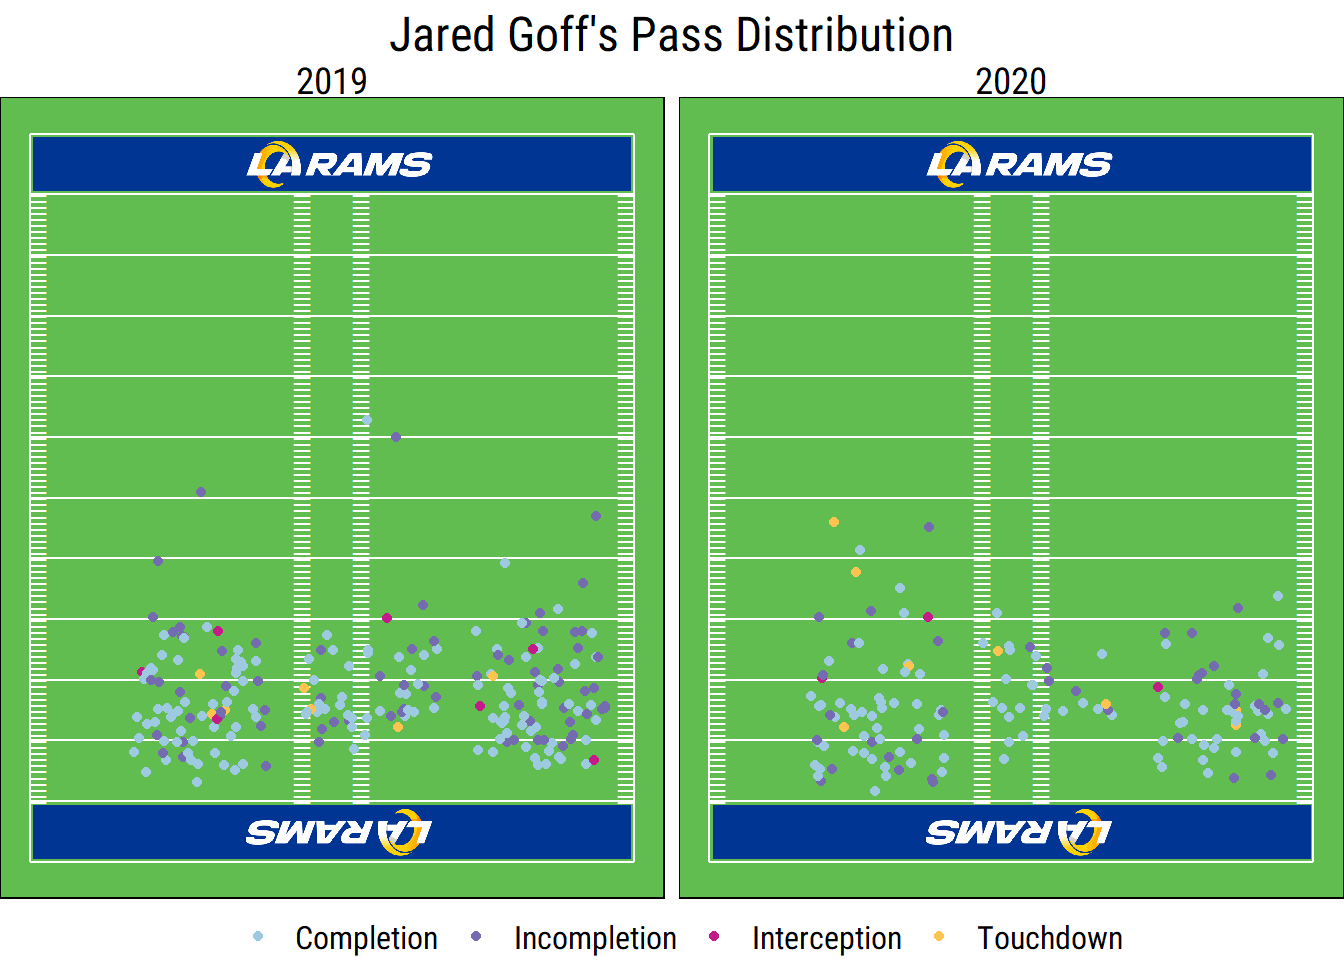
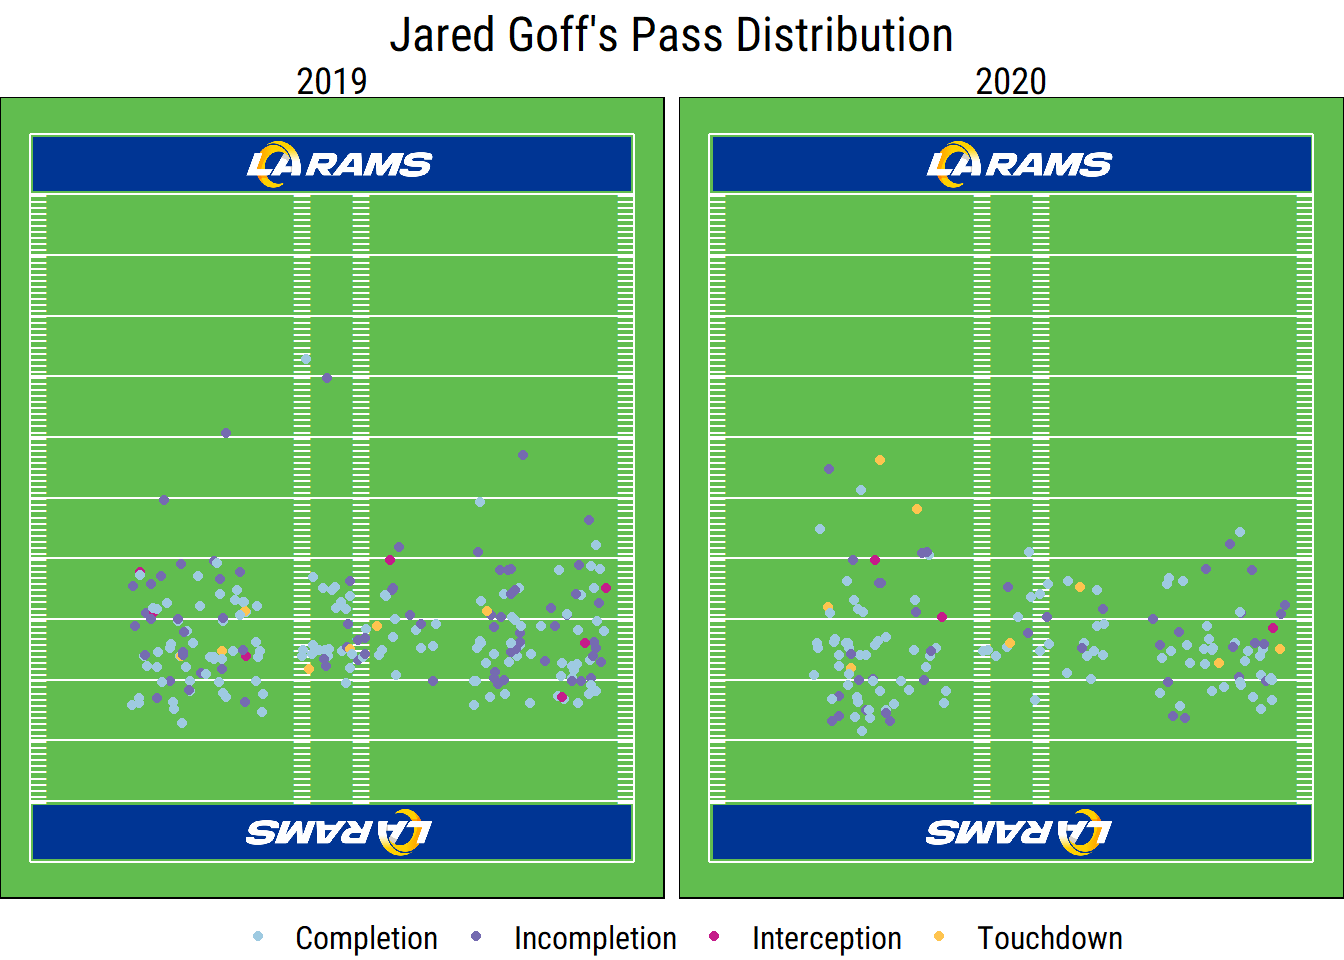
Post 1

diff --git a/content/post/goff-short-passing/index.html b/content/post/goff-short-passing/index.html
@@ -19,25 +19,16 @@ output:
 <script src="index_files/reactable-binding/reactable.js"></script>
 
 
-<p>This is my first post on this site, which I created to practice R and learn about some of my favorite topics.
-With the beginning of the 2020 NFL season, my initial focus is sports analytics, with a focus on my favorite team, the LA Rams. I’m new to football analytics, so I’m looking forward to learning about the field as I go and will hopefully stumble onto some interesting insights along the way.</p>
+<p>I created to learn about some of my favorite topics using R and with the beginning of the beginning 2020 NFL season, my initial focus is on sports analytics. In particular, I want to focus on my favorite team, the LA Rams. I’m new to football analytics, so I’m looking forward to learning as I go and hopefully stumbling across some interesting insights along the way.</p>
 <p>The Rams entered the 2020 season with a lot of question marks, but perhaps the biggest was Jared Goff. Quarterback play is essential to modern NFL teams. According to <a href="https://github.com/mrcaseb/nflfastR">nflfastR</a> data, the average passing play through five weeks in 2020 has gained 6.6 yards, while the average run has gained just 4.5, an efficiency advantage of almost 50%. In particular, the Rams just jettisoned former All-Pro running back Todd Gurley, further increasing the load on Goff’s shoulders after signing a <a href="https://www.turfshowtimes.com/2020/7/6/21315351/patrick-mahomes-jared-goff-contract-comparisons-rams-chiefs-salary">then-record</a> $134 million contract extension in 2019. The Rams can’t return to their 2018 success without Goff playing well, so his play is a great place to start.</p>
 <p>Heading into the season, I believed that Goff could be an above-average quarterback in a successful system, but struggles to create opportunities himself when in difficult situations. My opinion hasn’t changed much through the first five weeks of the season. At 4-1, the Rams have played fairly well against mostly weak competition, and Goff himself has been productive in their successful offensive scheme. He’s played well behind a strong offensive line and avoided making major mistakes while getting the ball to his talented receiving core. He definitely looks improved from his 2019 campaign, which saw the Rams miss the playoffs, but what’s different so far this year?</p>
 <p>A good start to understanding how Goff’s play has changed this year is seeing how his high-level stats have varied throughout this career. Before starting the analysis, the first step is to import the data I’ll be using. In this and future posts, I expect the main data source I’ll use will by play-by-play data available through the nflfastR package. This is a fantastic data source, and I doubt I would have decided to make these posts without it. I’ll also supplement with some data from the NFL’s Next Gen Stats (NGS), conveniently scraped and available on Github from <a href="https://github.com/mrcaseb/nfl-data">mrcaseb</a>. To get started with this analysis, I imported all data from both sources for the years Goff has been active in the league.</p>
-<pre class="r"><code>library(tidyverse)</code></pre>
-<pre><code>## -- Attaching packages ------------------------------------------------------------ tidyverse 1.3.0 --</code></pre>
-<pre><code>## v ggplot2 3.3.2     v purrr   0.3.4
-## v tibble  3.0.3     v dplyr   1.0.2
-## v tidyr   1.1.2     v stringr 1.4.0
-## v readr   1.4.0     v forcats 0.5.0</code></pre>
-<pre><code>## -- Conflicts --------------------------------------------------------------- tidyverse_conflicts() --
-## x dplyr::filter() masks stats::filter()
-## x dplyr::lag()    masks stats::lag()</code></pre>
-<pre class="r"><code>options(dplyr.summarise.inform = FALSE)
+<pre class="r"><code>library(tidyverse)
+options(dplyr.summarise.inform = FALSE)
 library(nflfastR)
-library(here)</code></pre>
-<pre><code>## here() starts at C:/Users/natha/Documents/natebean-site</code></pre>
-<pre class="r"><code>career &lt;- c(2016:2020)
+library(here)
+
+career &lt;- c(2016:2020)
 
 passing_pbp &lt;- map_df(career, function(x) {
   readRDS(url(
@@ -53,11 +44,10 @@ passing_pbp &lt;- map_df(career, function(x) {
   )
 
 ngs_data &lt;- map_df(career, function(x) {
-  readRDS(here(&quot;content&quot;, &quot;post&quot;, &quot;Post1_Goff Passing&quot;, &quot;Data&quot;, paste0(&quot;ngs_&quot;, x, &quot;_passing.rds&quot;)))
+  readRDS(here(&quot;content&quot;, &quot;post&quot;, &quot;goff-short-passing&quot;, &quot;Data&quot;, paste0(&quot;ngs_&quot;, x, &quot;_passing.rds&quot;)))
 })</code></pre>
 <pre class="r"><code>library(reactable)
 library(htmltools)
-# can we add colors?
 
 ngs_goff &lt;- ngs_data %&gt;%
   filter(week == 0) %&gt;%
@@ -120,7 +110,8 @@ passing_pbp %&gt;%
 <script type="application/json" data-for="htmlwidget-1">{"x":{"tag":{"name":"Reactable","attribs":{"data":{"Year":[2017,2018,2019,2020],"Player":["J.Goff","J.Goff","J.Goff","J.Goff"],"Comp %":[62.1,64.9,62.9,67.4],"TD/Int":[4,2.7,1.4,2.5],"CPOE":["-3 (22)","0.6 (18)","-3.6 (34)","0.6 (20)"],"QBR":["100.5 (6)","101.1 (8)","86.5 (25)","101.4 (11)"],"EPA/Play":["0.19 (4)","0.44 (1)","0.09 (9)","0.29 (5)"]},"columns":[{"accessor":"Year","name":"Year","type":"numeric"},{"accessor":"Player","name":"Player","type":"character","cell":[{"name":"Fragment","attribs":[],"children":[{"name":"div","attribs":{"style":{"display":"inline-block","width":"45px"}},"children":[{"name":"img","attribs":{"src":"images/J.Goff.jpg","height":"24px","alt":"J.Goff"},"children":[]}]},"J.Goff"]},{"name":"Fragment","attribs":[],"children":[{"name":"div","attribs":{"style":{"display":"inline-block","width":"45px"}},"children":[{"name":"img","attribs":{"src":"images/J.Goff.jpg","height":"24px","alt":"J.Goff"},"children":[]}]},"J.Goff"]},{"name":"Fragment","attribs":[],"children":[{"name":"div","attribs":{"style":{"display":"inline-block","width":"45px"}},"children":[{"name":"img","attribs":{"src":"images/J.Goff.jpg","height":"24px","alt":"J.Goff"},"children":[]}]},"J.Goff"]},{"name":"Fragment","attribs":[],"children":[{"name":"div","attribs":{"style":{"display":"inline-block","width":"45px"}},"children":[{"name":"img","attribs":{"src":"images/J.Goff.jpg","height":"24px","alt":"J.Goff"},"children":[]}]},"J.Goff"]}]},{"accessor":"Comp %","name":"Comp %","type":"numeric"},{"accessor":"TD/Int","name":"TD/Int","type":"numeric"},{"accessor":"CPOE","name":"CPOE","type":"character"},{"accessor":"QBR","name":"QBR","type":"character"},{"accessor":"EPA/Play","name":"EPA/Play","type":"character"}],"defaultPageSize":10,"paginationType":"numbers","showPageInfo":true,"minRows":1,"highlight":true,"outlined":true,"striped":true,"dataKey":"31bdf88de39082233bc755cb25370e87","key":"31bdf88de39082233bc755cb25370e87"},"children":[]},"class":"reactR_markup"},"evals":[],"jsHooks":[]}</script>
 <p>This data allows us to take a look at some of Goff’s most important stats since entering the league in 2016. All of the data in the table below is originally from NGS, besides average expected points added (EPA) per passing play, which was calculated using play-by-play data. Key stats from NGS include Goff’s completion percentage, touchdown to interception ratio, completion percentage over expected (CPOE), and quarterback rating (QBR).</p>
 <p>2016 was Goff’s worst season across all stats shown, not surprising given his 0-7 record as a starter for a floundering Rams team. While his stats picked up immediately with the arrival of Sean McVay, Goff has so far recorded his best stats in nearly all of the these measures in 2020. The table also shows how Goff ranks among NFL quarterbacks with at least 128 attempts in CPOE, QBR, and EPA/play. He’s never ranked highly in CPOE according to the NGS model, but has fared much better in QBR and EPA/play. In 2020, he ranks 11th in QBR and 5th in EPA/play. His relatively higher ranking in these two measures gives some insight into the reasons for his success. Goff hasn’t performed much above expectations for completed passes, so these stats suggest his success has come from other elements of the scheme, and avoiding turnovers and sacks.</p>
-<pre class="r"><code># is completion already here somewhere?
+<pre class="r"><code># needs to be resized for the post
+# is completion already here somewhere?
 goff_passing &lt;- passing_pbp %&gt;%
   filter(
     passer_player_name == &quot;J.Goff&quot;,
@@ -135,9 +126,9 @@ goff_passing &lt;- passing_pbp %&gt;%
 <p>Now that we’ve taken a look at Goff’s overall stats through week five, it’s useful to take a deeper dive into the factors that could explain some of his success this year. There’s a ton of possibilities to explore, and his success certainly stems from multiple changes, but the biggest difference that I’ve seen this year has been the Rams reliance on short passing. At least from my viewing experience, Goff has relied much more frequently on short passes and yards after catch (YAC) from his receivers. The lack of <a href="https://theathletic.com/2122606/2020/10/08/rams-qb-jared-goff-is-through-his-first-four-games-so-what-have-we-learned/">deep balls</a> from Goff has been highlighted by many others as well. Most of the remainder of this post will be dedicated to understanding how Goff has changed his pass selection, and how that compares to other teams. First, it will help to confirm what I already suspect is true by comparing the Rams reliance on short passing to the rest of the league. The code below creates a figure that shows the relationship between YAC and air yards (the distance beyond the line of scrimmage the ball travels in the air) across the league.</p>
 <pre class="r"><code>library(ggimage)
 library(teamcolors)
-library(extrafont)</code></pre>
-<pre><code>## Registering fonts with R</code></pre>
-<pre class="r"><code># make sure the avgs are current with incompletions
+library(extrafont)
+
+# make sure the avgs are current with incompletions
 
 team_logos &lt;- teams_colors_logos %&gt;% select(team_abbr, team_logo_espn)
 
@@ -224,7 +215,7 @@ passing_pbp %&gt;%
       pass_location == &quot;right&quot; ~ 45
     ),
     complete = ifelse(incomplete_pass == 0 &amp; touchdown == 0, 1, 0),
-    air_yards = air_yards + 20
+    air_yards = air_yards + 30
   ) %&gt;% # adjustment for plot
   select(incomplete_pass, interception, touchdown, air_yards, field_position, year) %&gt;%
   mutate(
@@ -244,13 +235,13 @@ result_colors &lt;- c(&quot;#9ecae1&quot;, &quot;#756bb1&quot;, &quot;#c51b8a&qu
 endzone &lt;- data.frame(
   x = 160 / 3 / 2,
   y = 115,
-  image = sample(here(&quot;content&quot;, &quot;post&quot;, &quot;Post1_Goff Passing&quot;, &quot;Images&quot;, &quot;rams_endzone.png&quot;))
+  image = sample(here(&quot;content&quot;, &quot;post&quot;, &quot;goff-short-passing&quot;, &quot;Images&quot;, &quot;rams_endzone.png&quot;))
 )
 
 opp_endzone &lt;- data.frame(
   x = 160 / 3 / 2,
   y = 5,
-  image = sample(here(&quot;content&quot;, &quot;post&quot;, &quot;Post1_Goff Passing&quot;, &quot;Images&quot;, &quot;opposite_end.png&quot;))
+  image = sample(here(&quot;content&quot;, &quot;post&quot;, &quot;goff-short-passing&quot;, &quot;Images&quot;, &quot;opposite_end.png&quot;))
 )
 
 yard_markers &lt;- data.frame(
@@ -309,7 +300,6 @@ ggplot() +
 Again, it should be noted that while the vertical distance is accurate the horizontal distance shown in the figure above is not. The data provides some information on horizontal pass location- left, middle, or right- but I created the variation within those three categories to make the figure more interesting.</p>
 <p>There are many additional data points that could shed some light on how Goff’s short passing game is working in 2020, but the rest of this post will focus on the role of the running backs in the passing game. In previous years, Gurley played a big role in the passing offense, and seemed effective at turning short, safe passes into big gains with YAC. This year, the Rams have been pivoted to a rb by committee system with Cam Akers, Monte Henderson, and Malcolm Brown (side note: the trio has XXX years through five games, more than the Rams in any year with Gurley as the lead back). Based on my viewing experience, these three have been notably absent in the passing game compared to backs in previous seasons, but is this true?</p>
 <pre class="r"><code># add line of scrimmage
-# adjust yards as a result
 
 rb_passes &lt;- goff_passing %&gt;%
   filter(receiver_jersey_number &gt;= 20 &amp; receiver_jersey_number &lt; 50)
@@ -357,10 +347,9 @@ The table above shows some of the key stats for relievers out of the backfield d
 <p>Overall, it will be interesting to see how the Rams passing game evolves throughout the season. Will Goff start throwing more deep balls as opposing defenses adjust to the Rams YAC-heavy pass game? Either way, for now Goff and the Rams offense is off the a great start to 2020. If they can maintain their success as divisional play begins this week against the 49ers, they’ll be in a good position to make another post-season run.</p>
 <p>This post just scratches the surface of the analysis that can be with nflfastR and other data sources and I plan to explore a lot more about the Rams passing game and other NFL topics in the future. This is just an initial exploration into trends in Goff’s 2020 passing game. There’s a ton more we can do with the available data, and plenty of posts to come. Topics I’m interested about looking at in the future include:</p>
 <ul>
-<li>Goff’s effectiveness using play action and with pre-snap motion (if I can find the data)</li>
+<li>Goff’s effectiveness using play action and with pre-snap motion (data pending)</li>
 <li>The change in wide receiver production with shift to short passing</li>
 <li>The Ram’s opening drive success</li>
 <li>Improvements in the Rams offensive line play</li>
 <li>A more in-depth look at passing patterns taking into account down, field position, time of game, and other factors</li>
 </ul>
-<p>there are a bunch of links at the end of article. remove</p>

diff --git a/content/home/slider.md b/content/home/slider.md
@@ -30,7 +30,7 @@ height = ""
   #   Activate the button by specifying a URL and button label below.
   #   Deactivate by commenting out parameters, prefixing lines with `#`.
   cta_label = "Read Now"
-  cta_url = "http://127.0.0.1:4321/post/placeholder/"
+  cta_url = "https://natebean.rbind.io/post/goff-short-passing/"
   cta_icon_pack = ""
   cta_icon = ""
 
